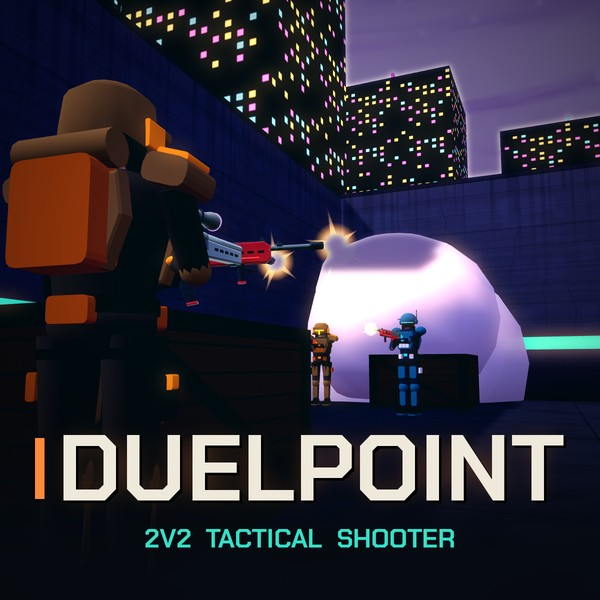
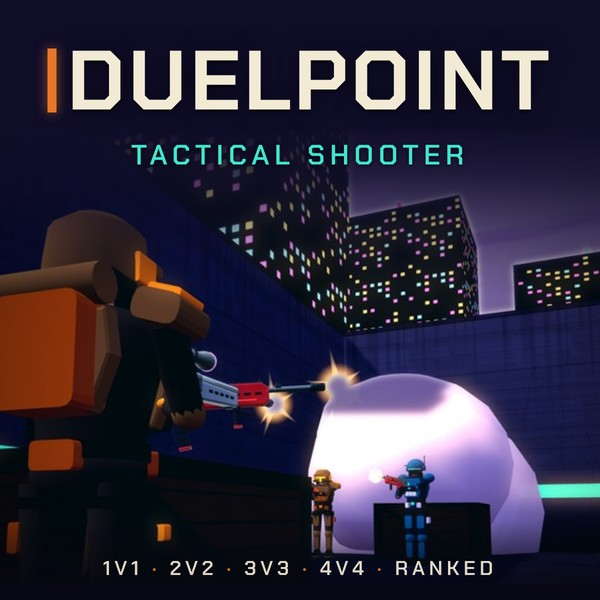
Duelpoint: cover with the name across the top like the other games; 1v1 to 4v4 and ranked on the strap
The scene is the earlier firefight, moved down under a night sky band that
carries DUELPOINT and TACTICAL SHOOTER in the game's own font. Source and
renderer in tools/duelpoint-cover (node r.mjs <that folder>).

Claude-Session: https://claude.ai/code/session_015d1ng3DQVJS16EdJCEDKYL

diff --git a/pulsebox/tools/duelpoint-cover/cover.html b/pulsebox/tools/duelpoint-cover/cover.html
@@ -1,0 +1,16 @@
+<!doctype html><html><head><meta charset="utf-8">
+<link href="https://fonts.googleapis.com/css2?family=Chakra+Petch:wght@600;700&display=swap" rel="stylesheet">
+<style>
+html,body{margin:0;background:#000}
+#c{position:relative;width:1200px;height:1200px;overflow:hidden;background:#100d29}
+#art{position:absolute;left:-40px;top:250px;width:1280px;height:917px;background:url(orig.jpg) 0 0/1280px auto no-repeat}
+#fade{position:absolute;left:0;right:0;top:250px;height:330px;background:linear-gradient(180deg,#100d29 0%,rgba(16,13,41,.8) 30%,rgba(16,13,41,.35) 65%,rgba(16,13,41,0) 100%)}
+#bot{position:absolute;left:0;right:0;bottom:0;height:160px;background:linear-gradient(0deg,rgba(6,6,16,.85),rgba(6,6,16,0))}
+#t{position:absolute;left:0;right:0;top:78px;text-align:center;font:700 168px/1 'Chakra Petch';letter-spacing:6px;color:#f3ead6;text-shadow:0 6px 0 rgba(0,0,0,.35),0 0 40px rgba(0,0,0,.6)}
+#t i{display:inline-block;width:18px;height:128px;background:#e8782a;margin-right:22px;vertical-align:-6px;box-shadow:0 0 24px rgba(232,120,42,.6)}
+#s{position:absolute;left:0;right:0;top:282px;text-align:center;font:600 56px/1 'Chakra Petch';letter-spacing:10px;color:#3fe6d0;text-shadow:0 2px 10px rgba(0,0,0,.8)}
+#b{position:absolute;left:0;right:0;bottom:44px;text-align:center;font:600 40px/1 'Chakra Petch';letter-spacing:8px;color:#f3ead6;opacity:.92}
+#b span{color:#e8782a}
+</style></head><body><div id="c"><div id="art"></div><div id="fade"></div><div id="bot"></div>
+<div id="t"><i></i>DUELPOINT</div><div id="s">TACTICAL SHOOTER</div>
+<div id="b">1V1 <span>·</span> 2V2 <span>·</span> 3V3 <span>·</span> 4V4 <span>·</span> RANKED</div></div></body></html>
